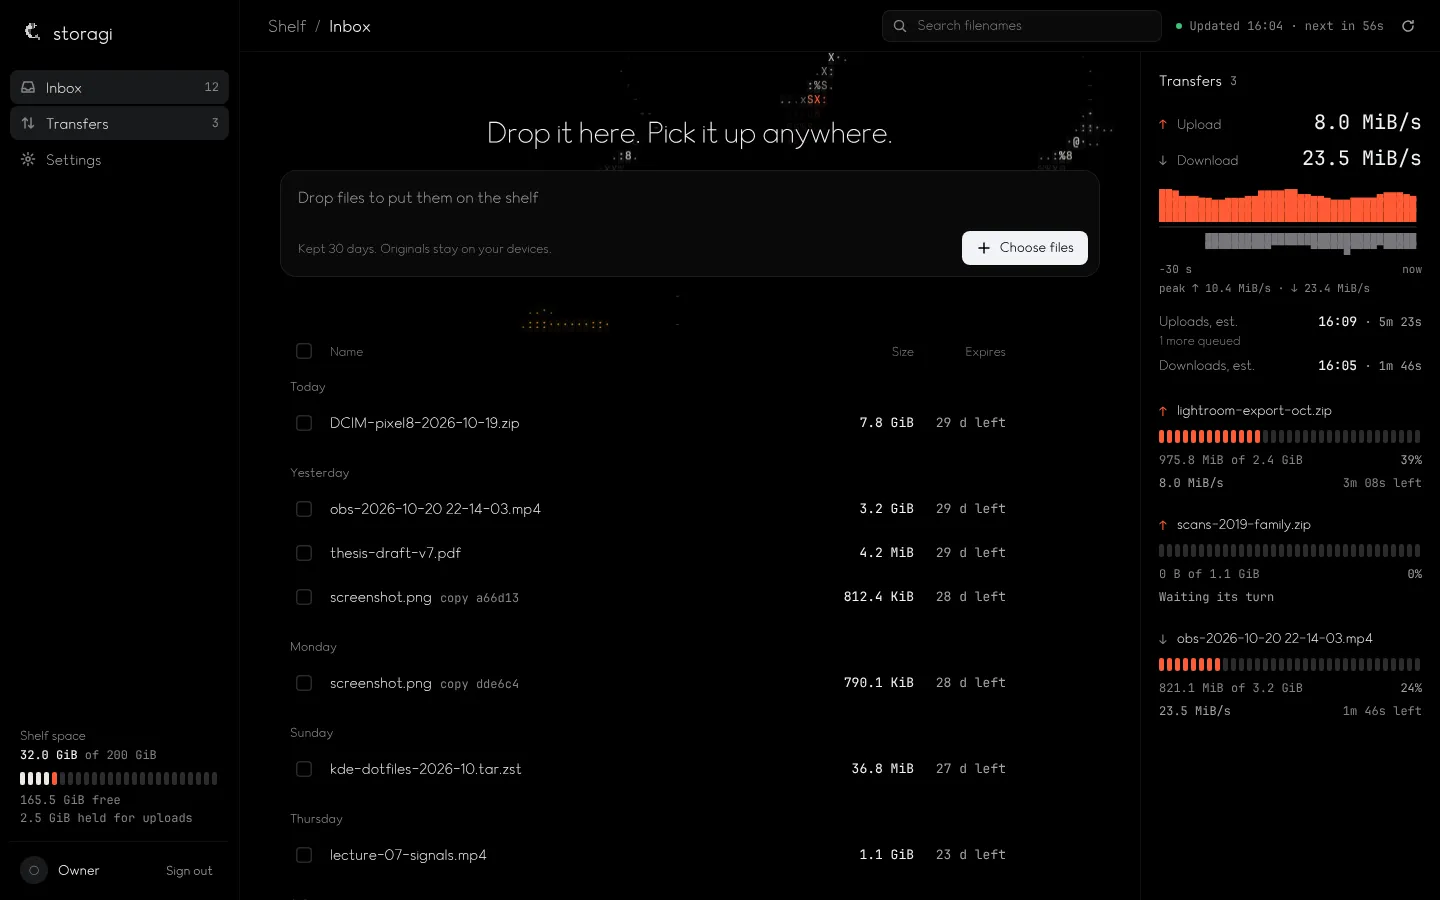
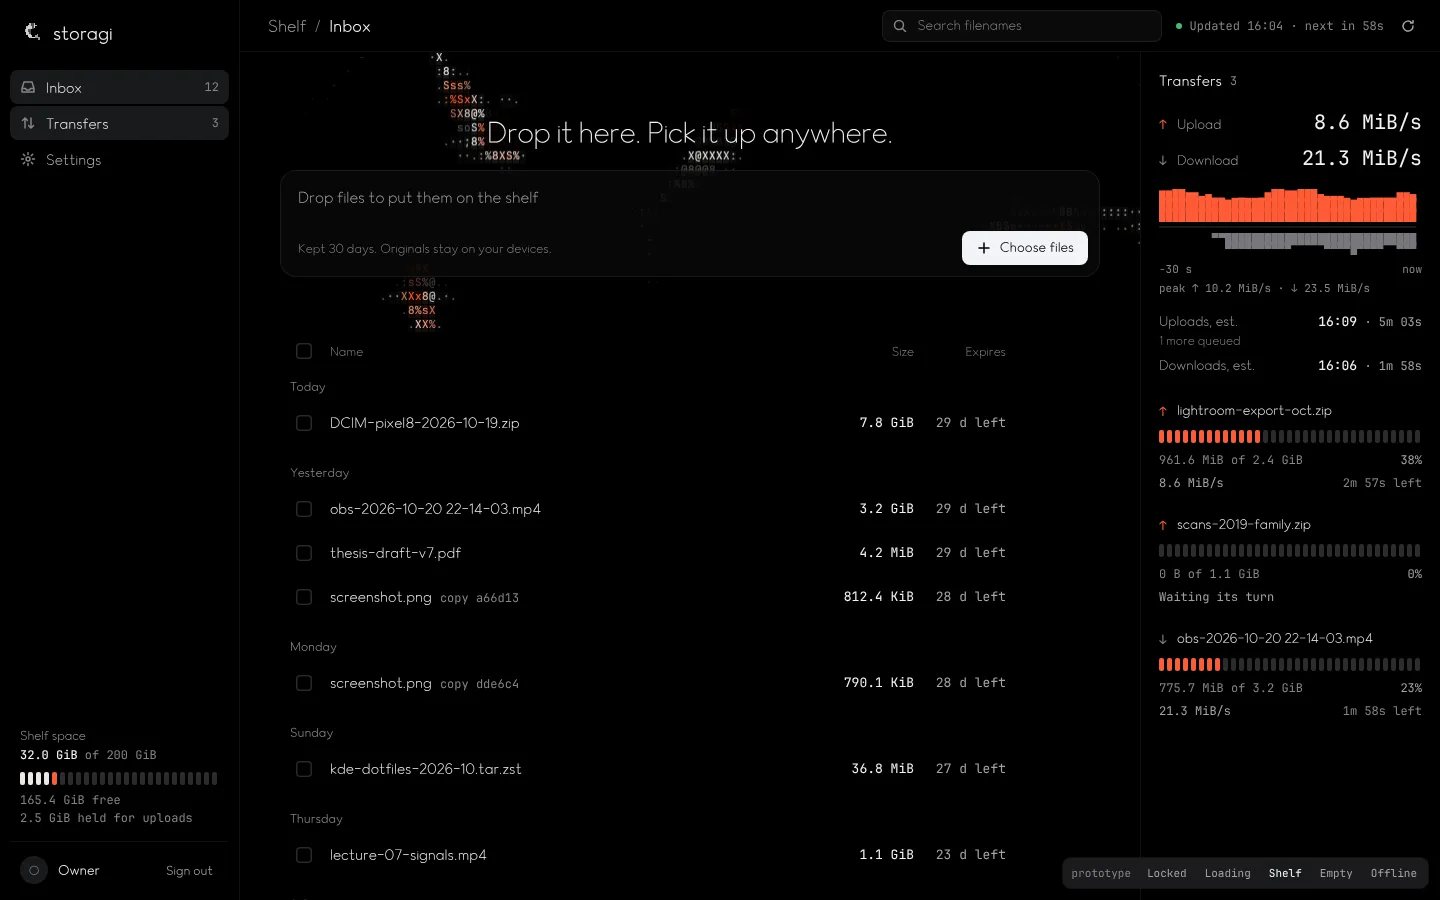
docs: mark the design final after day 2; retake shelf screenshots
Claude-Session: https://claude.ai/code/session_01CzCKTpNysaXAQ6TLXFMWbY

diff --git a/design/explorations/HANDOFF.md b/design/explorations/HANDOFF.md
@@ -1,6 +1,6 @@
 # Storagi frontend overhaul: implementation handoff
 
-The owner approved the design on 2026-10-21. This brief tells the next agent how to build it into the real app. The design record is [stage 48](../../docs/stages/48-frontend-design-exploration.md); this work is the next stage.
+The owner approved the design on 2026-10-21 and approved the day-2 additions (sorting, row gestures, pond waves, the select-all fix) on 2026-10-22. This brief tells the next agent how to build it into the real app. The design record is [stage 48](../../docs/stages/48-frontend-design-exploration.md); this work is the next stage.
 
 ## Read first
 
@@ -24,8 +24,8 @@ The bar at the bottom of the page switches between states: Locked, Loading, Shel
 | `shared/tokens.css` | Yes | Colour, type and component tokens (T3 Code's pure-black theme, one koi hue). |
 | `shared/fonts/` | Yes | Leon Sans 2.0 and the **full** JetBrains Mono (both SIL OFL; keep the licence files). Load them as real files that Vite bundles into `/assets`. |
 | `shared/brand/` | Yes | The owner's favicon set. `mark.js` holds the mark as a baked grayscale bitmap for the dotted koi. |
-| `shared/koi.js` | Yes, ported to TS | `KoiPond` (ASCII pond), `KoiMark` (dotted koi; touch drag; optional static band), `orbitLoader`. |
-| `shared/storagi.js` | **Only partly** | Keep `bytes`, `rate`, `duration`, `fileDrop`, `Selection`, `deferredDelete`, `toast`, the motion preference and the `Transfers` speed/ETA maths. Replace `createHost`, the sample files, `NOW`/`simNow`, the fixed UTC+8 `TZ` and the simulated link speeds with the real service, the real clock and the browser's own time zone. |
+| `shared/koi.js` | Yes, ported to TS | `KoiPond` (ASCII pond; a click drops one ring that is gone in 1 s and startles the koi it reaches), `KoiMark` (dotted koi; touch drag; optional static band), `orbitLoader`. |
+| `shared/storagi.js` | **Only partly** | Keep `bytes`, `rate`, `duration`, `fileDrop`, `Selection`, `deferredDelete`, `toast`, the motion and gesture preferences and the `Transfers` speed/ETA maths. Replace `createHost`, the sample files, `NOW`/`simNow`, the fixed UTC+8 `TZ` and the simulated link speeds with the real service, the real clock and the browser's own time zone. |
 | `final/index.html`, `app.js`, `style.css` | As the spec | The layout and every interaction. Rewrite against `web/src/` (plain TypeScript + Vite + tus-js-client). |
 
 ## Map onto the real service

diff --git a/docs/stages/48-frontend-design-exploration.md b/docs/stages/48-frontend-design-exploration.md
@@ -1,7 +1,7 @@
 # 48: Frontend design exploration (dark ASCII koi direction)
 
 - Status: completed; owner chose the final design (A's app with C's locked screen)
-- Started: 2026-10-21 16:00 +08:00; completed 2026-10-21
+- Started: 2026-10-21 16:00 +08:00; completed 2026-10-21; owner's day-2 additions 2026-10-22, after which the owner called the design final for this first iteration
 - Coordinator thread: Claude Code cloud session on branch `claude/nifty-knuth-k90bhs`, starting commit `1fa9cd8`.
 - Agent/task identifiers: coordinator plus four delegated variant builders (forks of the coordinator session), listed under Delegation.
 - Provider/model/effort: the session is configured for Claude Opus 5.5; the serving model per turn is not independently proven here. Forks inherit the coordinator's model.
@@ -95,4 +95,4 @@ Checked in headless Chromium (1440×900 and 390×844 with touch, UTC+8), with no
 
 ## Handoff
 
-The design is final and approved. [`design/explorations/HANDOFF.md`](../../design/explorations/HANDOFF.md) is the implementation brief: what to reuse, how each piece maps onto the real endpoints, the CSP and static-file constraints, the open download decision, and the acceptance list. Stage 49 (port into `web/`) is planned for a different agent; it is not started here, and nothing was deployed.
+The design is final and approved, day-2 additions included (owner, 2026-10-22: "nice and final for this first overhaul iteration"). The desktop and phone screenshots in `shots/` were retaken after the day-2 changes. [`design/explorations/HANDOFF.md`](../../design/explorations/HANDOFF.md) is the implementation brief: what to reuse, how each piece maps onto the real endpoints, the CSP and static-file constraints, the open download decision, and the acceptance list. Stage 49 (port into `web/`) is planned for a different agent; it is not started here, and nothing was deployed.
